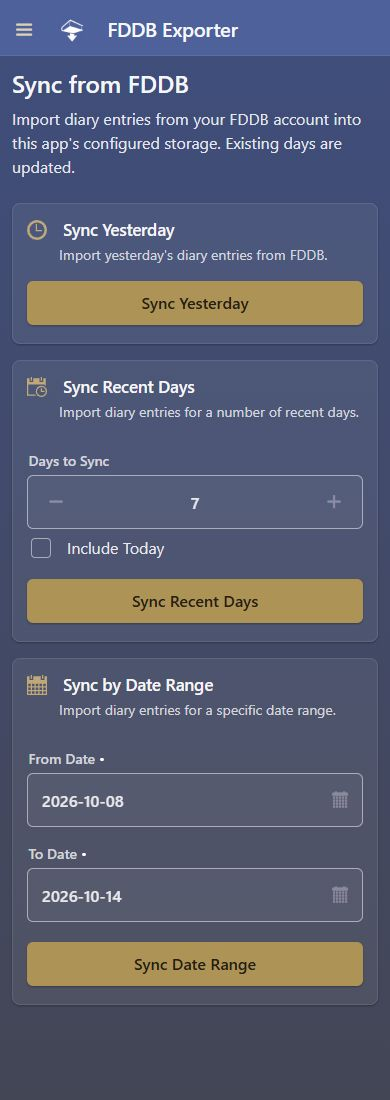
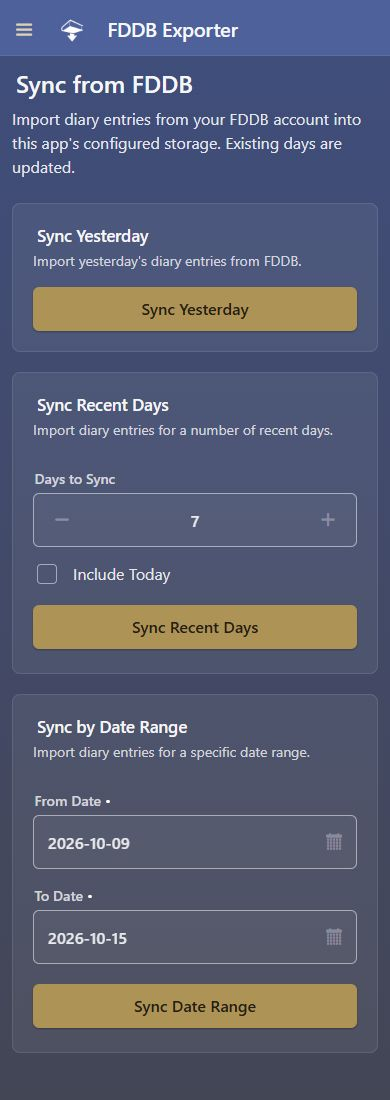
docs(ui): update screenshots and terminology in web-ui.md for version 2.6.0

diff --git a/docs/visualization/web-ui.md b/docs/visualization/web-ui.md
@@ -36,7 +36,7 @@ desktop and mobile versions provide the same features and functionality - the di
 adaptations for optimal display on different screen sizes.
 
 ::: info
-The screenshots below were captured from version 2.5.1-SNAPSHOT on October 15, 2026.
+The screenshots below were captured from version 2.6.0 on October 16, 2026.
 :::
 
 ### Desktop Views
@@ -44,7 +44,7 @@ The screenshots below were captured from version 2.5.1-SNAPSHOT on October 15, 2
 <table>
   <tr>
     <th align="center">Dashboard</th>
-    <th align="center">Product Search</th>
+    <th align="center">Product Explorer</th>
   </tr>
   <tr>
     <td align="center">
@@ -54,7 +54,7 @@ The screenshots below were captured from version 2.5.1-SNAPSHOT on October 15, 2
     </td>
     <td align="center">
       <a :href="'/fddb-exporter/images/desktop-product-search.jpg'" target="_blank">
-        <img :src="'/fddb-exporter/images/desktop-product-search.jpg'" alt="Product Search" width="400"/>
+        <img :src="'/fddb-exporter/images/desktop-product-search.jpg'" alt="Product Explorer" width="400"/>
       </a>
     </td>
   </tr>
@@ -80,13 +80,13 @@ The screenshots below were captured from version 2.5.1-SNAPSHOT on October 15, 2
 
 <table>
   <tr>
-    <th align="center">Data Export</th>
+    <th align="center">Sync from FDDB</th>
     <th align="center">Download</th>
   </tr>
   <tr>
     <td align="center">
       <a :href="'/fddb-exporter/images/mobile-export.jpg'" target="_blank">
-        <img :src="'/fddb-exporter/images/mobile-export.jpg'" alt="Mobile Export" width="200"/>
+        <img :src="'/fddb-exporter/images/mobile-export.jpg'" alt="Mobile Sync from FDDB" width="200"/>
       </a>
     </td>
     <td align="center">
